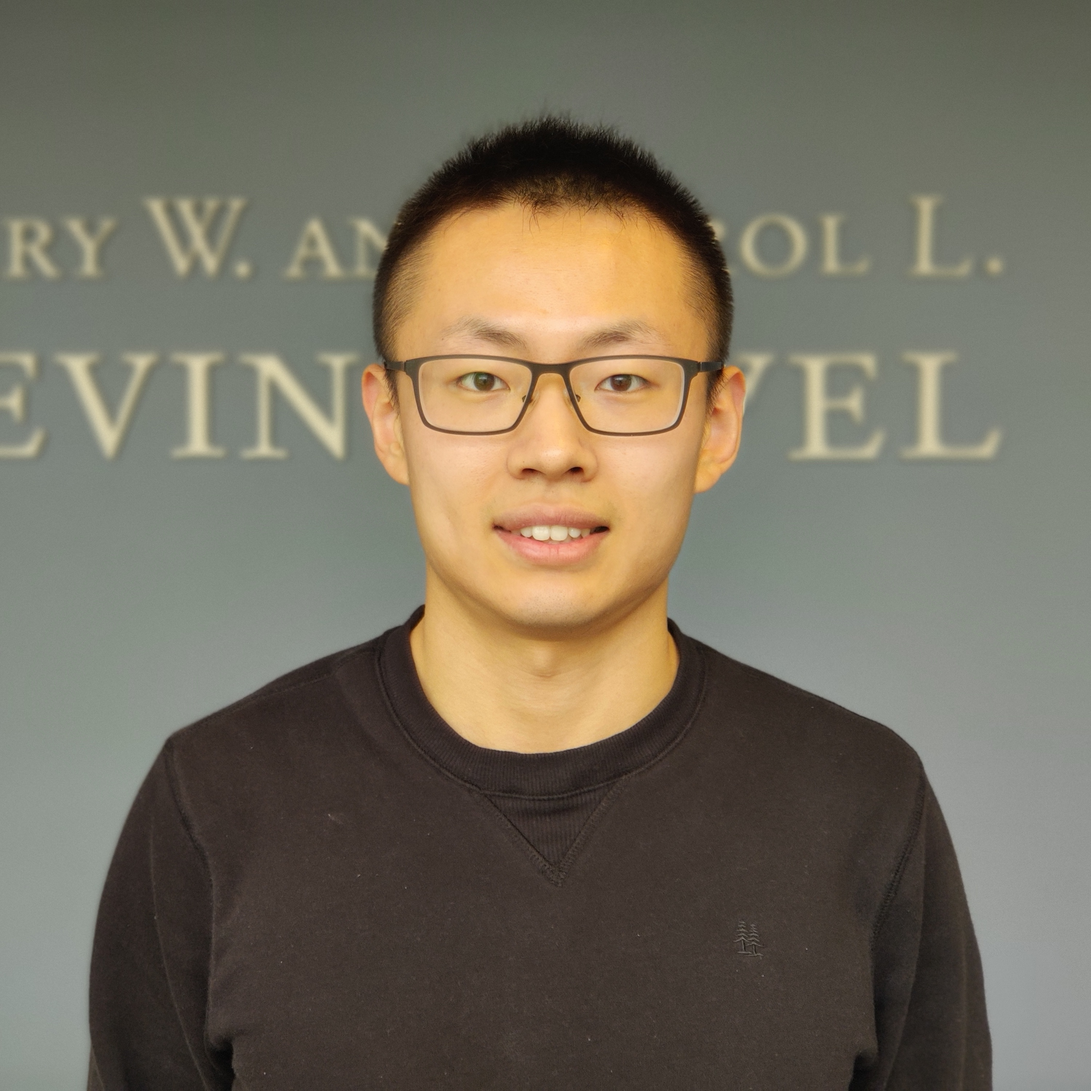
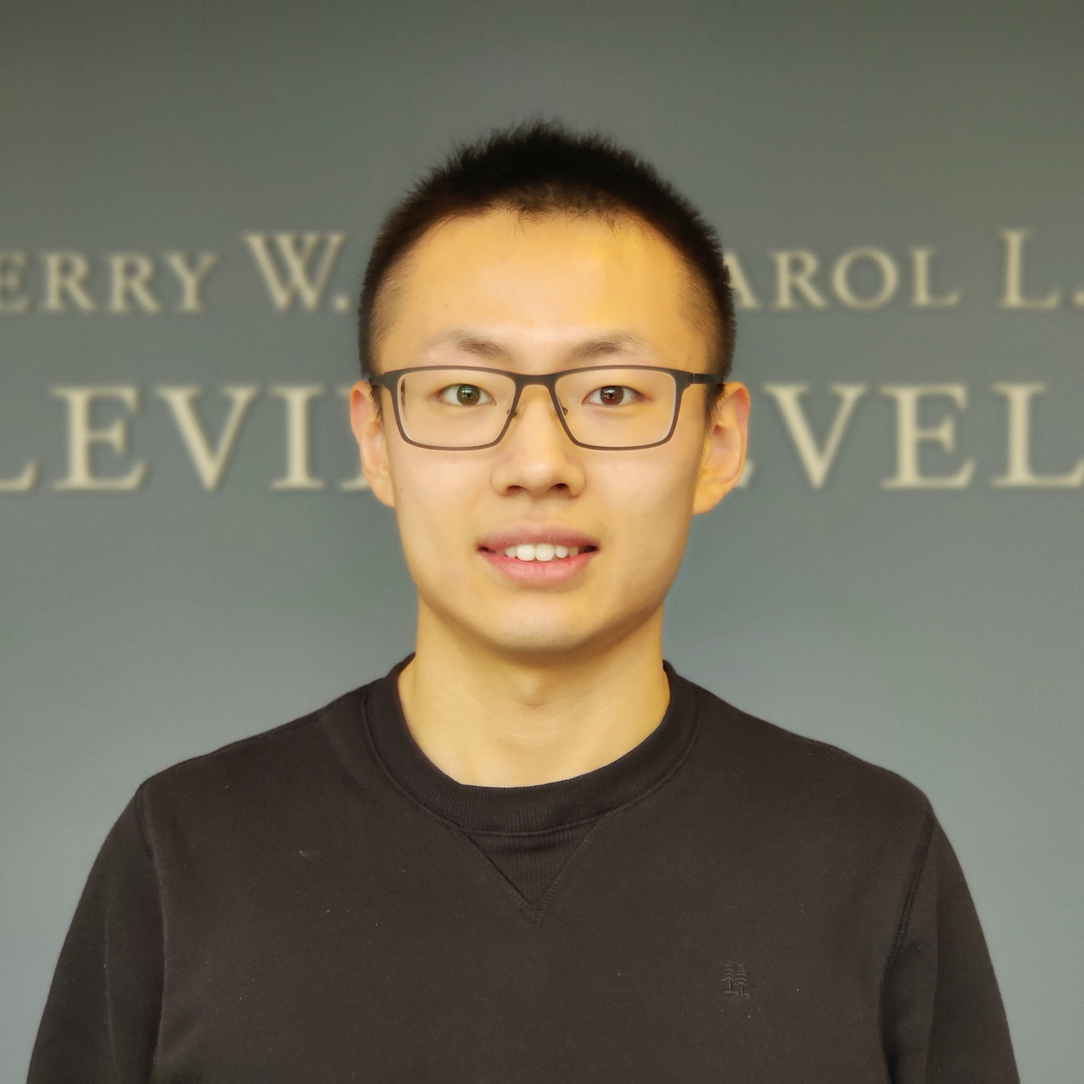
Update photo and misc address

diff --git a/index.html b/index.html
@@ -108,9 +108,10 @@
                   <a href="https://github.com/Yufeng98/GenDP">GitHub</a> &nbsp;/&nbsp;
                   Lightning Talk (
                   <a href="https://youtu.be/0LUvGuR7Xe8
-                  ">YouTube</a> /
-                  <a href="https://www.bilibili.com/video/BV1yz4y1q7Zc
-                  ">Bilibili</a> )
+                  ">YouTube</a> 
+                  <!-- / <a href="https://www.bilibili.com/video/BV1yz4y1q7Zc
+                  ">Bilibili</a>  -->
+                  )
                 </p>
 
                 <p>
@@ -164,7 +165,7 @@
             <tr>
               <td style="padding:1.0% 2.5%;width:100%;vertical-align:middle">
                 <p>
-                  <a href="https://yufenggu.tech/miscellaneous/">Miscellaneous</a>
+                  <a href="https://web.eecs.umich.edu/~yufenggu/miscellaneous/">Miscellaneous</a>
                 </p>
               </td>
           </table>
